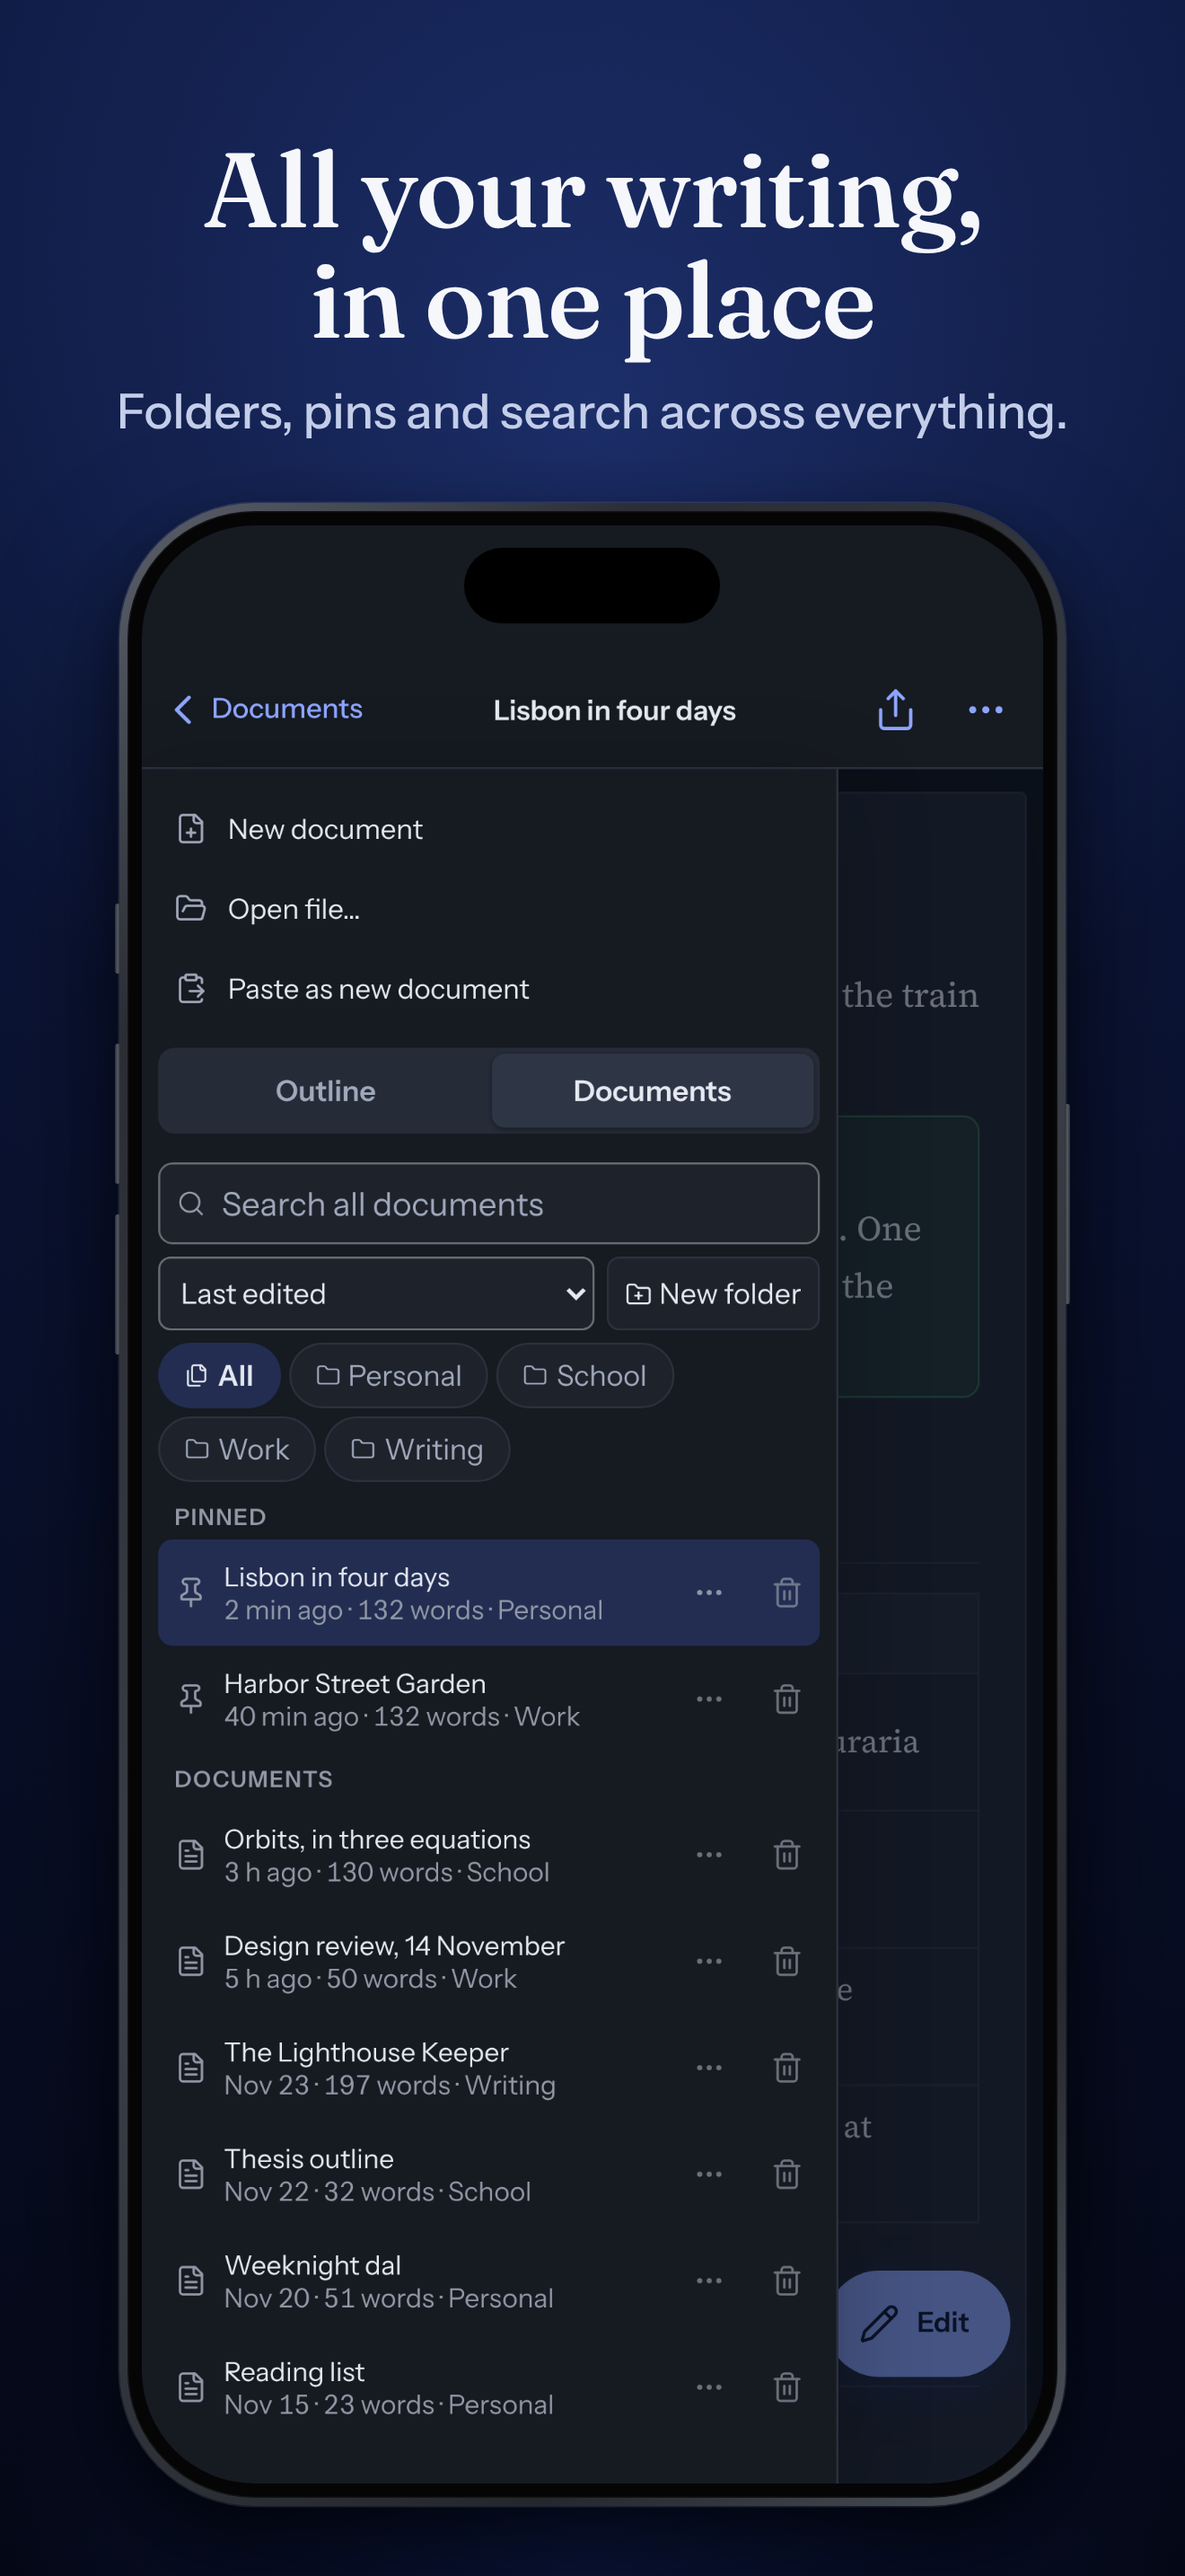
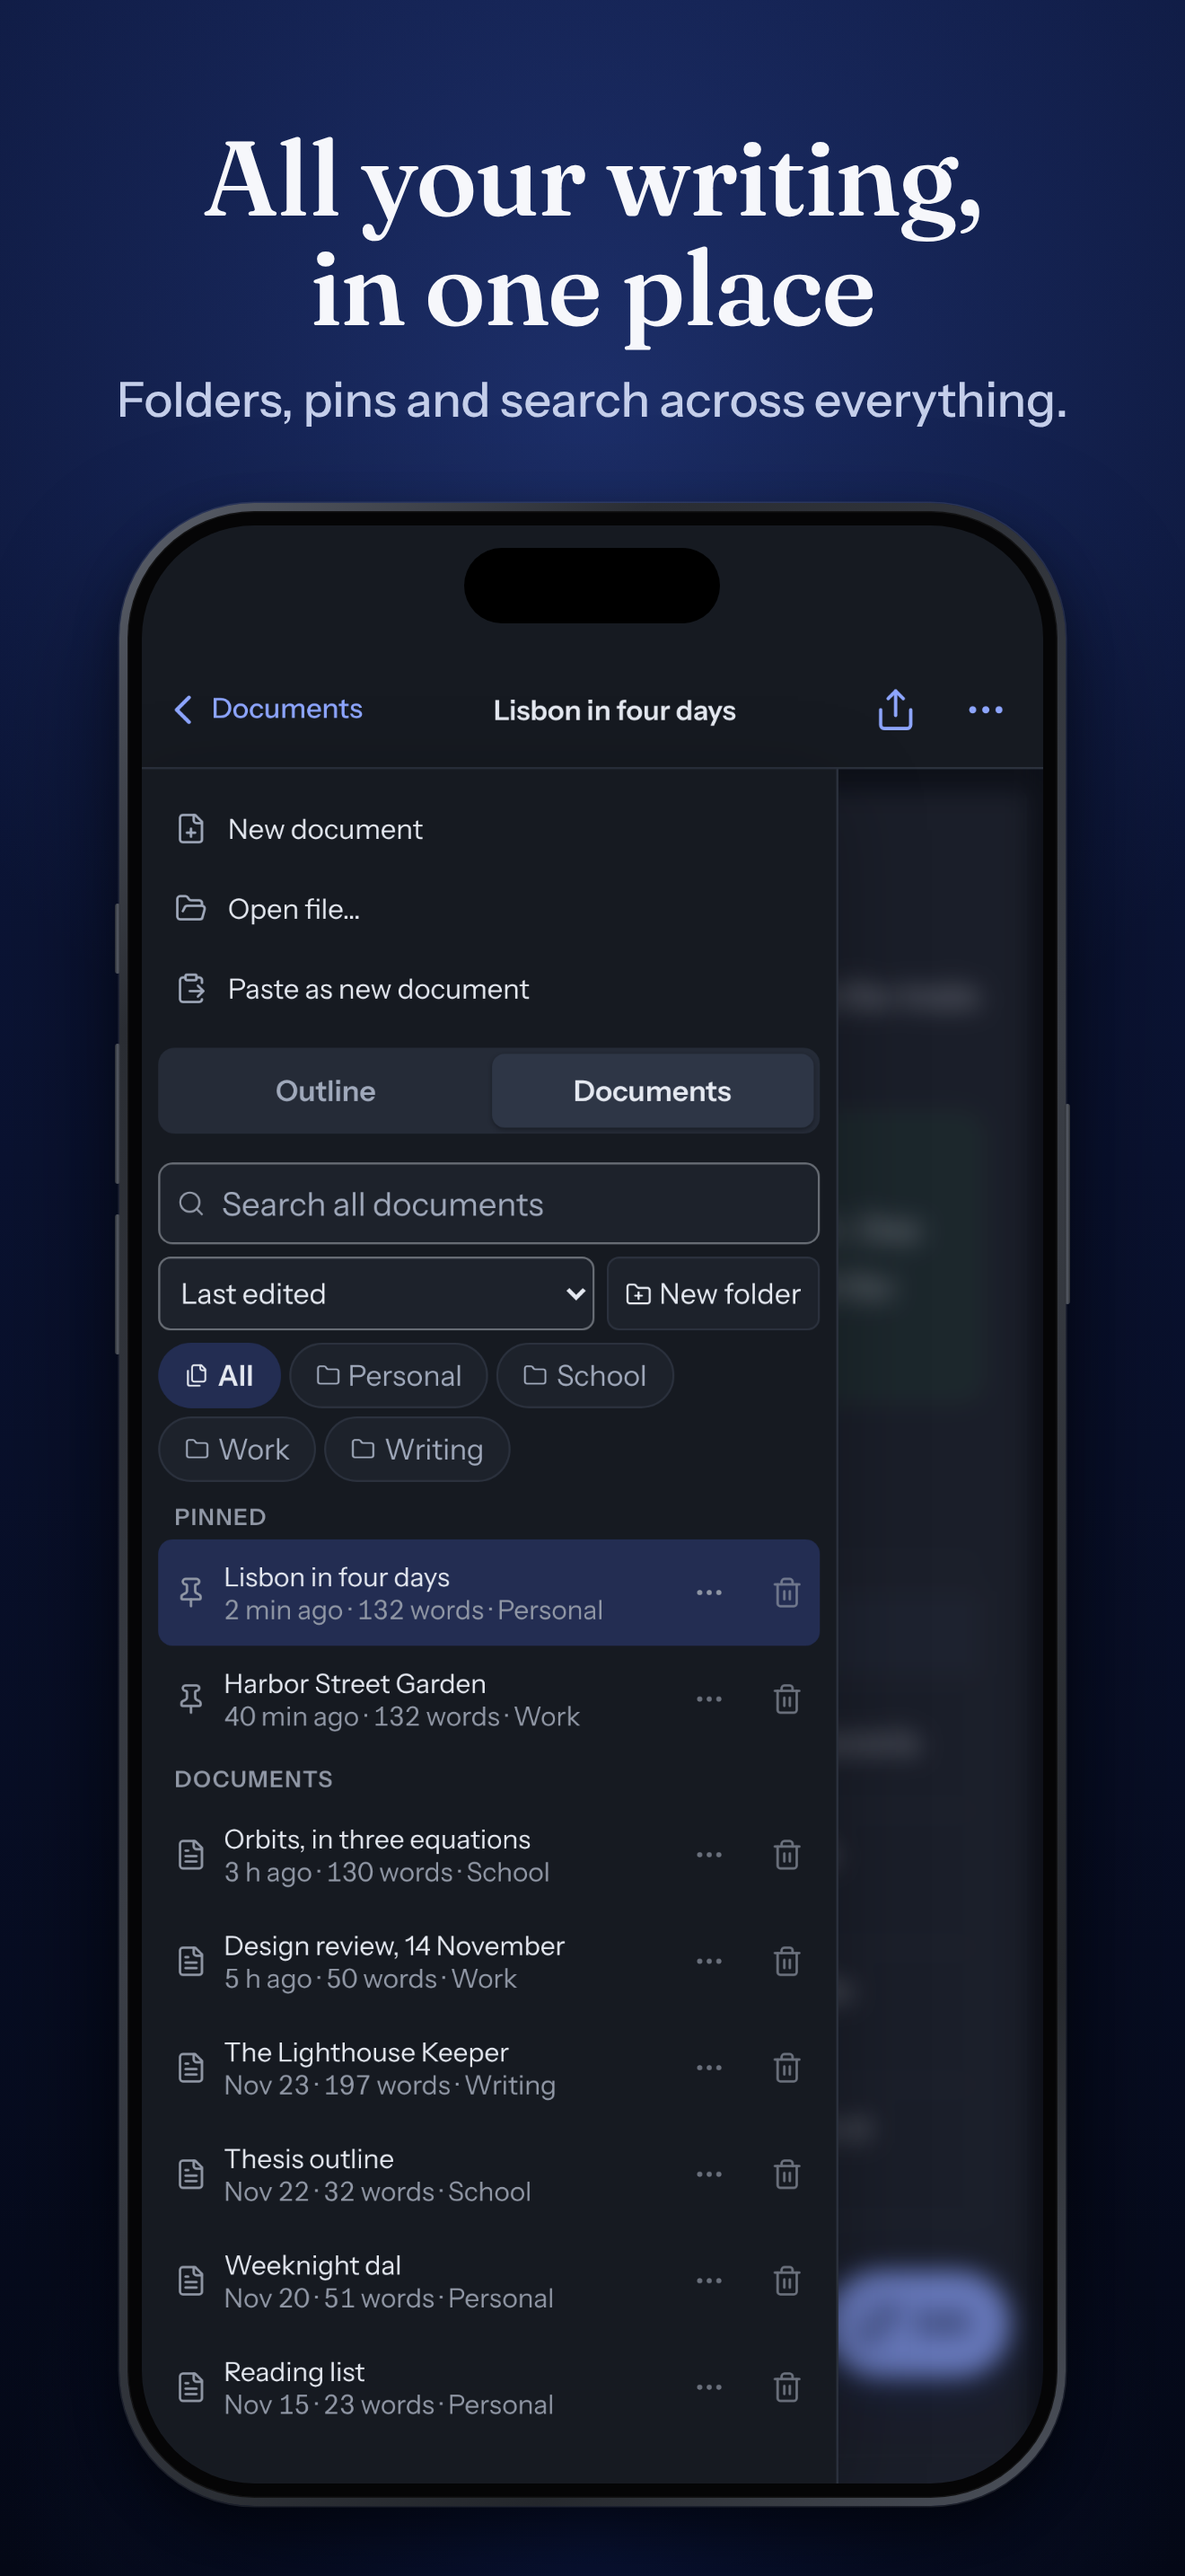
Diagram labels no longer clipped; brighter iPad files shot; slot-5 copy that matches
- Mermaid: labels are measured and drawn the same way. The renderer waits for Instrument Sans, uses it
  for measuring (fontFamily and themeVariables), pads flowchart labels by 12, and diagrams draw at normal
  line height instead of the page's 1.66, which had pushed descenders (y, p) out of their boxes.
- Tablet sidebar over the page: a light dim with no blur, as in iPadOS, so the page stays readable.
- ipad-4-files: Documents beside Lisbon's page at full brightness; ipad-5 and mac-5 sub-line
  "Letter or A4, ready to print or save as PDF." (no outline promised; no repeat of slot 2).
- store-frame (shared with Cowdrey.PDF): on iPhone the sub-line's baseline sits 96 px above the phone.
- Regenerated the math shots, the iPhone set, ipad-4, ipad-5 and mac-5. e2e 91/91.

Claude-Session: https://claude.ai/code/session_014fP66dMfGbhVNUrPp9snee

diff --git a/artifact.html b/artifact.html
@@ -818,6 +818,8 @@ kbd.k { font-family: var(--font-mono); font-size: 11.5px; background: var(--chro
 #sideToggle { display: none; }
 .app[data-overlay="on"] .sidebar { position: absolute; z-index: 15; top: 0; bottom: 0; left: 0; box-shadow: 0 10px 40px rgba(0,0,0,.25); }
 .app[data-overlay="on"] .workspace::after { content: ""; position: absolute; inset: 0; background: rgba(14, 20, 34, .32); -webkit-backdrop-filter: blur(6px); backdrop-filter: blur(6px); z-index: 14; }
+/* On a tablet the sidebar slides over a page that stays readable, as in iPadOS: a light dim, no blur. */
+.app[data-overlay="on"]:not([data-mobile="on"]) .workspace::after { background: rgba(14, 20, 34, .16); -webkit-backdrop-filter: none; backdrop-filter: none; }
 .g-card .s { overflow: hidden; text-overflow: clip; max-width: 100%; }
 .sb-zoom { flex-shrink: 0; }
 @media (max-width: 990px) {
@@ -916,6 +918,8 @@ kbd.k { font-family: var(--font-mono); font-size: 11.5px; background: var(--chro
 .preview .math-block { text-align: center; overflow-x: auto; overflow-y: hidden; padding: .3em 0; }
 .preview .mermaid-block { display: flex; justify-content: center; overflow-x: auto; }
 .preview .mermaid-block svg { max-width: 100%; height: auto; }
+/* Mermaid measures labels outside the page, at normal line height; draw them the same way so the text fits its box. */
+.preview .mermaid-block svg { line-height: normal; }
 .preview .render-error { font-family: var(--font-mono); font-size: .78em; color: var(--c-caution); border: 1px dashed currentColor; border-radius: 6px; padding: .6em .8em; white-space: pre-wrap; }
 .preview .front-matter { font-family: var(--font-ui); font-size: .72em; border: 0; border-bottom: 1px solid var(--paper-line); border-radius: 0; padding: 0 0 .8em; margin-bottom: 1.4em; letter-spacing: .01em; color: var(--paper-muted); display: grid; grid-template-columns: max-content 1fr; gap: .15em 1.2em; }
 .preview .front-matter b { font-weight: 600; text-transform: uppercase; letter-spacing: .07em; font-size: .9em; color: var(--paper-muted); }
@@ -1756,12 +1760,22 @@ function isDark() {
   return matchMedia('(prefers-color-scheme: dark)').matches;
 }
 let mermaidTheme = null;
+const MERMAID_FONT = 'Instrument Sans, system-ui, sans-serif';
+// Mermaid sizes each label by measuring it, so wait until the label font is ready before the first diagram.
+let mermaidFontsReady = null;
+const mermaidFonts = () => mermaidFontsReady || (mermaidFontsReady = (async () => {
+  try { if (document.fonts) { await document.fonts.load('16px "Instrument Sans"'); await document.fonts.ready; } } catch {}
+})());
 function renderMermaid() {
   const blocks = $$('.mermaid-block', preview);
   if (!blocks.length) return;
   if (!window.mermaid || typeof window.mermaid.render !== 'function') { blocks.forEach((b) => { b.innerHTML = '<div class="render-error">Loading diagram renderer…</div>'; }); return; }
   const theme = isDark() ? 'dark' : 'default';
-  if (mermaidTheme !== theme) { mermaid.initialize({ startOnLoad: false, theme, securityLevel: 'strict', fontFamily: 'Instrument Sans, system-ui, sans-serif' }); mermaidTheme = theme; }
+  if (mermaidTheme !== theme) {
+    // Labels are measured and drawn in the same font, so the boxes fit their text (descenders included).
+    mermaid.initialize({ startOnLoad: false, theme, securityLevel: 'strict', fontFamily: MERMAID_FONT, themeVariables: { fontFamily: MERMAID_FONT }, flowchart: { htmlLabels: true, padding: 12 } });
+    mermaidTheme = theme;
+  }
   const badge = $('#renderBadge');
   let pending = 0;
   for (const b of blocks) {
@@ -1770,7 +1784,7 @@ function renderMermaid() {
     if (mermaidCache.has(key)) { b.innerHTML = mermaidCache.get(key); continue; }
     pending++; badge.style.opacity = 1;
     const id = 'cowdrey-mmd-' + (++mermaidSeq);
-    Promise.resolve().then(() => mermaid.render(id, src)).then(({ svg }) => {
+    mermaidFonts().then(() => mermaid.render(id, src)).then(({ svg }) => {
       mermaidCache.set(key, svg);
       if (mermaidCache.size > 60) mermaidCache.delete(mermaidCache.keys().next().value);
       b.innerHTML = svg;

diff --git a/index.html b/index.html
@@ -827,6 +827,8 @@ kbd.k { font-family: var(--font-mono); font-size: 11.5px; background: var(--chro
 #sideToggle { display: none; }
 .app[data-overlay="on"] .sidebar { position: absolute; z-index: 15; top: 0; bottom: 0; left: 0; box-shadow: 0 10px 40px rgba(0,0,0,.25); }
 .app[data-overlay="on"] .workspace::after { content: ""; position: absolute; inset: 0; background: rgba(14, 20, 34, .32); -webkit-backdrop-filter: blur(6px); backdrop-filter: blur(6px); z-index: 14; }
+/* On a tablet the sidebar slides over a page that stays readable, as in iPadOS: a light dim, no blur. */
+.app[data-overlay="on"]:not([data-mobile="on"]) .workspace::after { background: rgba(14, 20, 34, .16); -webkit-backdrop-filter: none; backdrop-filter: none; }
 .g-card .s { overflow: hidden; text-overflow: clip; max-width: 100%; }
 .sb-zoom { flex-shrink: 0; }
 @media (max-width: 990px) {
@@ -925,6 +927,8 @@ kbd.k { font-family: var(--font-mono); font-size: 11.5px; background: var(--chro
 .preview .math-block { text-align: center; overflow-x: auto; overflow-y: hidden; padding: .3em 0; }
 .preview .mermaid-block { display: flex; justify-content: center; overflow-x: auto; }
 .preview .mermaid-block svg { max-width: 100%; height: auto; }
+/* Mermaid measures labels outside the page, at normal line height; draw them the same way so the text fits its box. */
+.preview .mermaid-block svg { line-height: normal; }
 .preview .render-error { font-family: var(--font-mono); font-size: .78em; color: var(--c-caution); border: 1px dashed currentColor; border-radius: 6px; padding: .6em .8em; white-space: pre-wrap; }
 .preview .front-matter { font-family: var(--font-ui); font-size: .72em; border: 0; border-bottom: 1px solid var(--paper-line); border-radius: 0; padding: 0 0 .8em; margin-bottom: 1.4em; letter-spacing: .01em; color: var(--paper-muted); display: grid; grid-template-columns: max-content 1fr; gap: .15em 1.2em; }
 .preview .front-matter b { font-weight: 600; text-transform: uppercase; letter-spacing: .07em; font-size: .9em; color: var(--paper-muted); }
@@ -1765,12 +1769,22 @@ function isDark() {
   return matchMedia('(prefers-color-scheme: dark)').matches;
 }
 let mermaidTheme = null;
+const MERMAID_FONT = 'Instrument Sans, system-ui, sans-serif';
+// Mermaid sizes each label by measuring it, so wait until the label font is ready before the first diagram.
+let mermaidFontsReady = null;
+const mermaidFonts = () => mermaidFontsReady || (mermaidFontsReady = (async () => {
+  try { if (document.fonts) { await document.fonts.load('16px "Instrument Sans"'); await document.fonts.ready; } } catch {}
+})());
 function renderMermaid() {
   const blocks = $$('.mermaid-block', preview);
   if (!blocks.length) return;
   if (!window.mermaid || typeof window.mermaid.render !== 'function') { blocks.forEach((b) => { b.innerHTML = '<div class="render-error">Loading diagram renderer…</div>'; }); return; }
   const theme = isDark() ? 'dark' : 'default';
-  if (mermaidTheme !== theme) { mermaid.initialize({ startOnLoad: false, theme, securityLevel: 'strict', fontFamily: 'Instrument Sans, system-ui, sans-serif' }); mermaidTheme = theme; }
+  if (mermaidTheme !== theme) {
+    // Labels are measured and drawn in the same font, so the boxes fit their text (descenders included).
+    mermaid.initialize({ startOnLoad: false, theme, securityLevel: 'strict', fontFamily: MERMAID_FONT, themeVariables: { fontFamily: MERMAID_FONT }, flowchart: { htmlLabels: true, padding: 12 } });
+    mermaidTheme = theme;
+  }
   const badge = $('#renderBadge');
   let pending = 0;
   for (const b of blocks) {
@@ -1779,7 +1793,7 @@ function renderMermaid() {
     if (mermaidCache.has(key)) { b.innerHTML = mermaidCache.get(key); continue; }
     pending++; badge.style.opacity = 1;
     const id = 'cowdrey-mmd-' + (++mermaidSeq);
-    Promise.resolve().then(() => mermaid.render(id, src)).then(({ svg }) => {
+    mermaidFonts().then(() => mermaid.render(id, src)).then(({ svg }) => {
       mermaidCache.set(key, svg);
       if (mermaidCache.size > 60) mermaidCache.delete(mermaidCache.keys().next().value);
       b.innerHTML = svg;

diff --git a/src/app.js b/src/app.js
@@ -346,12 +346,22 @@ function isDark() {
   return matchMedia('(prefers-color-scheme: dark)').matches;
 }
 let mermaidTheme = null;
+const MERMAID_FONT = 'Instrument Sans, system-ui, sans-serif';
+// Mermaid sizes each label by measuring it, so wait until the label font is ready before the first diagram.
+let mermaidFontsReady = null;
+const mermaidFonts = () => mermaidFontsReady || (mermaidFontsReady = (async () => {
+  try { if (document.fonts) { await document.fonts.load('16px "Instrument Sans"'); await document.fonts.ready; } } catch {}
+})());
 function renderMermaid() {
   const blocks = $$('.mermaid-block', preview);
   if (!blocks.length) return;
   if (!window.mermaid || typeof window.mermaid.render !== 'function') { blocks.forEach((b) => { b.innerHTML = '<div class="render-error">Loading diagram renderer…</div>'; }); return; }
   const theme = isDark() ? 'dark' : 'default';
-  if (mermaidTheme !== theme) { mermaid.initialize({ startOnLoad: false, theme, securityLevel: 'strict', fontFamily: 'Instrument Sans, system-ui, sans-serif' }); mermaidTheme = theme; }
+  if (mermaidTheme !== theme) {
+    // Labels are measured and drawn in the same font, so the boxes fit their text (descenders included).
+    mermaid.initialize({ startOnLoad: false, theme, securityLevel: 'strict', fontFamily: MERMAID_FONT, themeVariables: { fontFamily: MERMAID_FONT }, flowchart: { htmlLabels: true, padding: 12 } });
+    mermaidTheme = theme;
+  }
   const badge = $('#renderBadge');
   let pending = 0;
   for (const b of blocks) {
@@ -360,7 +370,7 @@ function renderMermaid() {
     if (mermaidCache.has(key)) { b.innerHTML = mermaidCache.get(key); continue; }
     pending++; badge.style.opacity = 1;
     const id = 'cowdrey-mmd-' + (++mermaidSeq);
-    Promise.resolve().then(() => mermaid.render(id, src)).then(({ svg }) => {
+    mermaidFonts().then(() => mermaid.render(id, src)).then(({ svg }) => {
       mermaidCache.set(key, svg);
       if (mermaidCache.size > 60) mermaidCache.delete(mermaidCache.keys().next().value);
       b.innerHTML = svg;

diff --git a/src/template.html b/src/template.html
@@ -467,6 +467,8 @@ kbd.k { font-family: var(--font-mono); font-size: 11.5px; background: var(--chro
 #sideToggle { display: none; }
 .app[data-overlay="on"] .sidebar { position: absolute; z-index: 15; top: 0; bottom: 0; left: 0; box-shadow: 0 10px 40px rgba(0,0,0,.25); }
 .app[data-overlay="on"] .workspace::after { content: ""; position: absolute; inset: 0; background: rgba(14, 20, 34, .32); -webkit-backdrop-filter: blur(6px); backdrop-filter: blur(6px); z-index: 14; }
+/* On a tablet the sidebar slides over a page that stays readable, as in iPadOS: a light dim, no blur. */
+.app[data-overlay="on"]:not([data-mobile="on"]) .workspace::after { background: rgba(14, 20, 34, .16); -webkit-backdrop-filter: none; backdrop-filter: none; }
 .g-card .s { overflow: hidden; text-overflow: clip; max-width: 100%; }
 .sb-zoom { flex-shrink: 0; }
 @media (max-width: 990px) {
@@ -565,6 +567,8 @@ kbd.k { font-family: var(--font-mono); font-size: 11.5px; background: var(--chro
 .preview .math-block { text-align: center; overflow-x: auto; overflow-y: hidden; padding: .3em 0; }
 .preview .mermaid-block { display: flex; justify-content: center; overflow-x: auto; }
 .preview .mermaid-block svg { max-width: 100%; height: auto; }
+/* Mermaid measures labels outside the page, at normal line height; draw them the same way so the text fits its box. */
+.preview .mermaid-block svg { line-height: normal; }
 .preview .render-error { font-family: var(--font-mono); font-size: .78em; color: var(--c-caution); border: 1px dashed currentColor; border-radius: 6px; padding: .6em .8em; white-space: pre-wrap; }
 .preview .front-matter { font-family: var(--font-ui); font-size: .72em; border: 0; border-bottom: 1px solid var(--paper-line); border-radius: 0; padding: 0 0 .8em; margin-bottom: 1.4em; letter-spacing: .01em; color: var(--paper-muted); display: grid; grid-template-columns: max-content 1fr; gap: .15em 1.2em; }
 .preview .front-matter b { font-weight: 600; text-transform: uppercase; letter-spacing: .07em; font-size: .9em; color: var(--paper-muted); }
